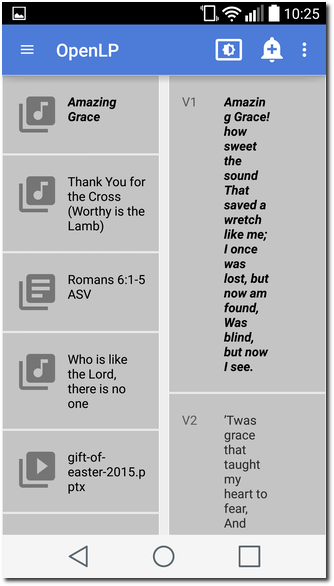
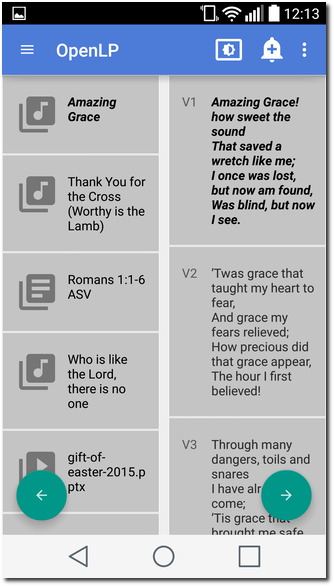
Updated android sceenshots and docs, and added to troubleshooting.

diff --git a/manual/source/android.rst b/manual/source/android.rst
@@ -39,6 +39,13 @@ Display Text Size
 **Select display text size:**
     This allows you to change the font size for the application display.
 
+Auto center display
+^^^^^^^^^^^^^^^^^^^
+
+**Allow displays to auto center:**
+    Check this box to allow the selected item to scroll to the centre of the
+    list.
+
 Set Custom Timeout
 ^^^^^^^^^^^^^^^^^^
 
@@ -99,10 +106,10 @@ Service List
 ^^^^^^^^^^^^
 
 Selecting :guilabel:`Service List` will take you to the Service Manager. 
-Selecting an item with a short press in the service will immediately take it 
+Selecting an item with a in the service manager will immediately take it 
 live on the projection screen and you will stay on the service screen on your 
-device. Selecting an item with a long press in the service will immediately take 
-it live on the projection screen and to the live display on your device.
+device. You can use the arrows buttons shown on the bottom left and right to
+move to the next slide inside the item. 
 
 .. image:: pics/droid_service.png
 
@@ -112,7 +119,8 @@ Live List
 Selecting :guilabel:`Live List` will display what ever is in Service Manager
 at the time, or what is live at the moment. If there are items in the Service
 Manager they will be shown on the left, and the live item will be shown on the
-right.
+right. You can use the arrows buttons shown on the bottom left and right to move
+to the next slide inside the item. 
 
 .. image:: pics/droid_live_list_portrait.png
 

diff --git a/manual/source/troubleshooting.rst b/manual/source/troubleshooting.rst
@@ -199,3 +199,11 @@ If Windows is missing a proper driver for the graphics card on the computer, it
 might cause OpenLP to crash on startup, resulting in a message saying 
 :guilabel:`OpenLP has stopped working`. To fix this find, download and install
 the newest driver for your graphics card.
+
+I saved service-files in the servicemanager folder but now they are gone
+------------------------------------------------------------------------
+
+The `servicemanager` folder which can be found in OpenLP's data folder is used
+internally by OpenLP for temporary files and anything in there can and will be
+deleted by OpenLP. In general you should not modify or create files in OpenLP's
+data folder unless you know what you are doing.
